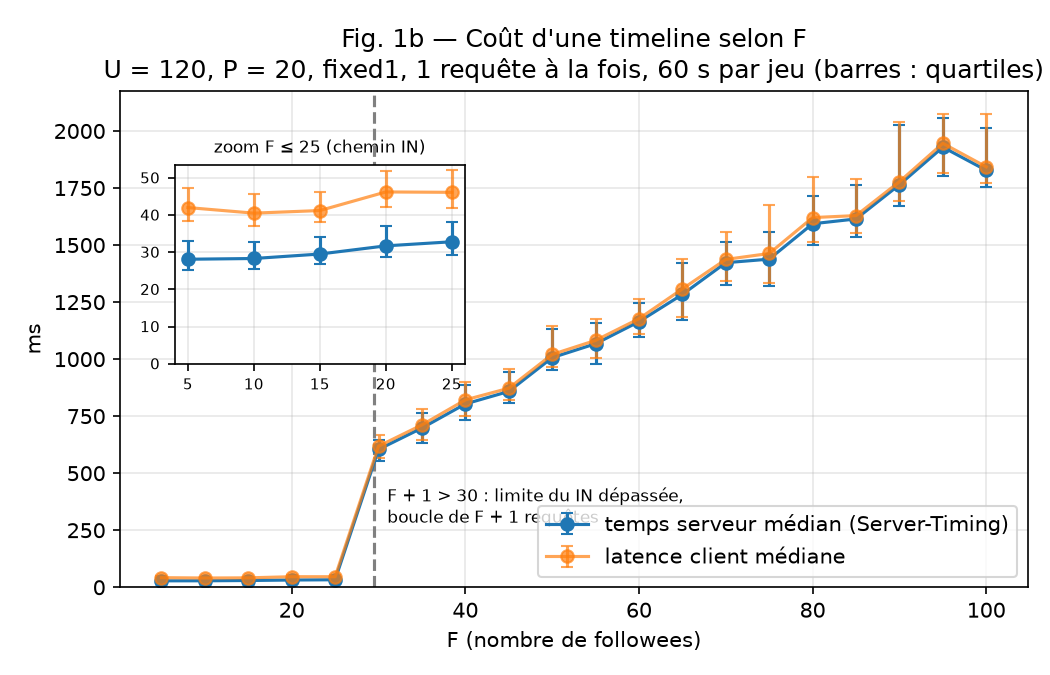
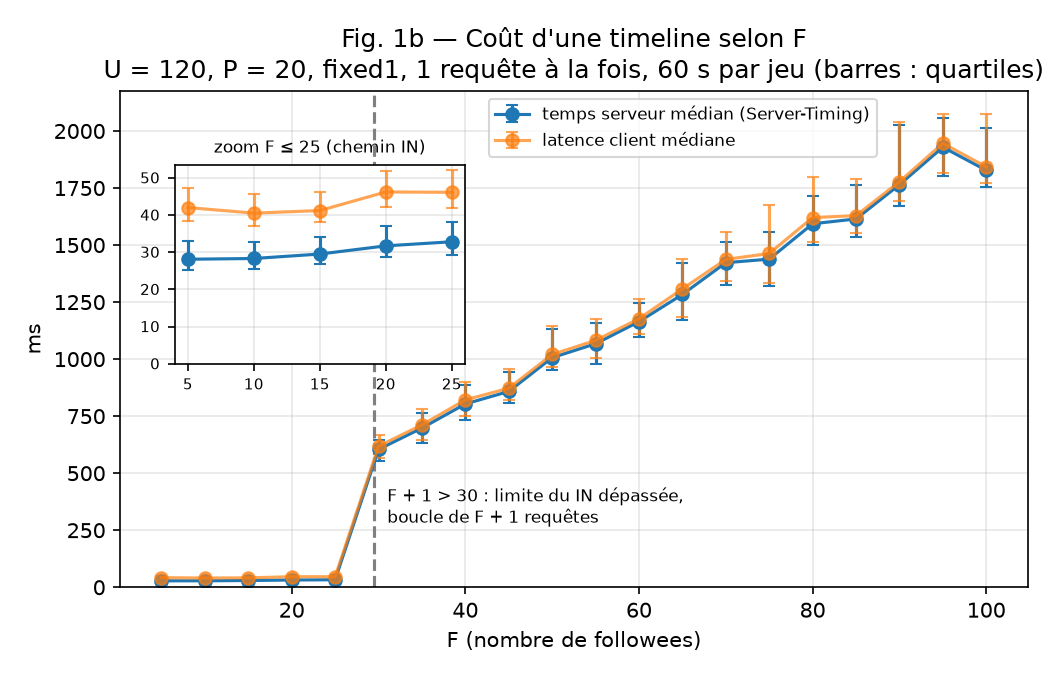
Nettoyage : journaux bruts regroupés dans raw/, en-têtes de scripts, Fig. 1b, notions du cours

Changed region(s): [[0.4876, 0.7467, 0.9752, 0.8711], [0.4571, 0.1244, 0.8533, 0.2489]]

diff --git a/bench/make_figures.py b/bench/make_figures.py
@@ -85,7 +85,7 @@ errbar(ins, [Fs[i] for i in k], [ss[i] for i in k], "lat", alpha=.7)
 ins.set_ylim(bottom=0); ins.set_title("zoom F ≤ 25 (chemin IN)", fontsize=8)
 ins.tick_params(labelsize=7); ins.grid(alpha=.3)
 ax.set_title("Fig. 1b — Coût d'une timeline selon F\nU = 120, P = 20, fixed1, 1 requête à la fois, 60 s par jeu (barres : quartiles)")
-ax.legend(loc="lower right"); ax.grid(alpha=.3); fig.tight_layout(); fig.savefig(f"{OUT}/fig1b.png", dpi=150)
+ax.legend(loc="upper center", bbox_to_anchor=(0.62, 1.0), fontsize=8); ax.grid(alpha=.3); fig.tight_layout(); fig.savefig(f"{OUT}/fig1b.png", dpi=150)
 
 print("Figures et CSV écrits dans figures/ : fig1a.png, fig1a.csv, fig1b.png, fig1b.csv")
 

diff --git a/README.md b/README.md
@@ -9,7 +9,7 @@ Rapport du projet Données massives et Cloud. Sujet : [SUJET.md](SUJET.md). READ
 - Jeux de données : générés du 06/11 au 08/11/2026 avec `bench/seed_exact.py`, vérifiés par `bench/check_datasets.py` (27/27 exacts)
 - Client (seed et charge) : Cloud Shell — Python 3.12, locust 2.46.7, google-cloud-datastore 2.19.0
 - Versions de mesure (instances B1, manual scaling, `--no-promote`) : `fixed1` (13/11, Parties 1 et 2), `fixed2` et `fixed4` (13/11, Partie 2), `thr1` = `fixed1` + `gunicorn --threads 8` (14/11, Partie 3, deux runs à 17:20 et 18:09 UTC)
-- **Reproduire** : toutes les figures et leurs CSV se régénèrent en une commande à partir de `raw/` : `pip install matplotlib && python bench/make_figures.py`. Mesures : `bench/run_part1.sh`, `bench/run_part2.sh N`, `bench/run_part3.sh N` ; vérification des jeux : `python bench/check_datasets.py`. Journal détaillé des incidents : [`NOTES.md`](NOTES.md).
+- **Reproduire** : toutes les figures et leurs CSV se régénèrent en une commande à partir de `raw/` : `pip install matplotlib && python bench/make_figures.py`. Mesures : `bench/run_part1.sh`, `bench/run_part2.sh N`, `bench/run_part3.sh N` ; vérification des jeux : `python bench/check_datasets.py`. Orchestration par un script shell par partie (pas de Snakemake). Journal détaillé des incidents : [`NOTES.md`](NOTES.md).
 
 ## 2. Résultats
 
@@ -27,7 +27,7 @@ Avant de mesurer, je regarde ce que fait vraiment une timeline dans `get_timelin
 Le code prévoit aussi une version GQL (L52-56), mais elle ne tourne jamais : `datastore.Client` n'a pas de méthode `gql` (vérifié). Et il y a un piège : si la requête `IN` échoue, l'erreur est ignorée (L65) et le code fait une boucle d'une requête par auteur (L66-72). Or Datastore accepte au plus 30 valeurs dans un `IN`. J'ai testé : 30 passe, 31 renvoie `400 IN supports up to 30 values`. Dès F = 30, l'application change donc de chemin sans rien dire, et répond toujours 200.
 
 **U et P : je m'attends à un temps constant.**
-Datastore range ses données par plages de clés triées (*range partitioning*). Dans l'index, les posts d'un même auteur sont côte à côte, du plus récent au plus ancien. Pour avoir ses 20 derniers posts, il suffit d'aller au début de sa plage et de lire 20 entrées : c'est la *range query* avec `ORDER BY … LIMIT` que le cours décrit comme naturelle en range partitioning. Le lookup de L43 est un accès par clé exacte (*point lookup*). Ni le nombre total d'utilisateurs (U), ni les posts plus anciens (P) n'entrent en jeu. C'est toute la différence avec le *Seq Scan* + *Sort* de PostgreSQL vu en cours : ici, on fait toujours l'équivalent d'un *Index Scan*.
+Datastore range ses données par plages de clés triées (*range partitioning*). Dans l'index, les posts d'un même auteur sont côte à côte, du plus récent au plus ancien. Pour avoir ses 20 derniers posts, il suffit d'aller au début de sa plage et de lire 20 entrées : c'est la *range query* avec `ORDER BY … LIMIT` que le cours décrit comme naturelle en range partitioning. Le lookup de L43 est un accès par clé exacte (*point lookup*). Ni le nombre total d'utilisateurs (U), ni les posts plus anciens (P) n'entrent en jeu. C'est la différence avec le *Seq Scan* + *Sort* de PostgreSQL vu en cours : ici, on fait toujours l'équivalent d'un *Index Scan*.
 
 **F : je m'attends à ce que ça ne passe pas à l'échelle.**
 Chaque auteur suivi est une plage différente, potentiellement sur un *shard* différent. La requête devient un *scatter/gather* sur F + 1 plages, suivi d'une fusion des résultats.
@@ -35,7 +35,7 @@ Chaque auteur suivi est une plage différente, potentiellement sur un *shard* di
 - F = 30 : un saut, le code bascule sur la boucle ;
 - F ≥ 30 : F + 1 allers-retours successifs vers Datastore. Le temps devrait croître à peu près linéairement avec F.
 
-Petit calcul de ce que coûte une timeline :
+Nombre d'opérations Datastore par timeline :
 
 | Cas | Lookups | Requêtes Datastore | Posts renvoyés (max) |
 |---|---|---|---|
@@ -88,7 +88,7 @@ Ce n'est pas Datastore qui ne passe pas à l'échelle ici, mais la façon dont l
 | F = 50 | 1 + 20 × 51 = 1 021 | ≈ 613 $ |
 | F = 100 | 1 + 20 × 101 = 2 021 | ≈ 1 213 $ |
 
-Le coût ne dépend ni de U ni de P, mais il est multiplié par 30 dès F = 30, puis il croît linéairement. Le problème de F coûte du temps, et aussi de l'argent.
+Le coût ne dépend ni de U ni de P, mais il est multiplié par 30 dès F = 30, puis il croît linéairement. Le problème de F coûte du temps, et aussi de l'argent. Avec le *back-of-the-envelope* « Instagram » du cours (50 milliards d'éléments de feed vus par jour, soit ~2,5 milliards de timelines de 20 posts), cela ferait ≈ 31 000 $ de lectures par jour avec F ≤ 25, et ≈ 3 millions $ par jour si chacun suivait 100 comptes.
 
 **Limites.** Les runs à F ≥ 30 ne contiennent que 30 à 93 requêtes en 60 s (une requête dure jusqu'à 2 s) : leurs médianes sont moins précises. Chaque jeu a été mesuré sur un seul utilisateur (`<préfixe>_u00000`). Tous les utilisateurs d'un jeu ont exactement F followees et P posts, ce qui les rend équivalents pour la requête, mais un effet de cache côté Datastore n'est pas exclu.
 
@@ -139,7 +139,7 @@ Valeurs tracées : [`figures/fig2a.csv`](figures/fig2a.csv), [`figures/fig2b.csv
 - le **client** n'est pas saturé : Locust n'a émis aucune alerte CPU ;
 - les **instances** sont pleines : elles passent 76 à 92 % de leur temps dans `get_timeline`.
 
-Ce qui change, c'est la durée de `get_timeline`. Son temps moyen (occupation / débit) passe d'environ 27 ms avec une instance à 40-47 ms avec 2 ou 4 instances, alors que la médiane bouge peu (25 → 29-34 ms) : quelques appels deviennent beaucoup plus lents. Avec 7 ms de surcoût par requête, cela donne 1 / (43 + 7 ms) ≈ 20 req/s par instance, exactement ce qu'on mesure. Plus on ajoute d'instances, plus elles interrogent Datastore en même temps, et plus l'accès aux données ralentit : comme le dit le cours, *« it scales if the data access scales »*. C'est aussi l'idée de la loi d'Amdahl : la partie partagée limite le gain. Je ne peux pas séparer ici l'effet de Datastore et celui du CPU partagé des instances B1, car les deux sont dans `get_timeline`.
+Ce qui change, c'est la durée de `get_timeline`. Son temps moyen (occupation / débit) passe d'environ 27 ms avec une instance à 40-47 ms avec 2 ou 4 instances, alors que la médiane bouge peu (25 → 29-34 ms) : quelques appels deviennent beaucoup plus lents. Avec 7 ms de surcoût par requête, cela donne 1 / (43 + 7 ms) ≈ 20 req/s par instance, ce qu'on mesure. Plus on ajoute d'instances, plus elles interrogent Datastore en même temps, et plus l'accès aux données ralentit : comme le dit le cours, *« it scales if the data access scales »*. C'est aussi l'idée de la loi d'Amdahl : la partie partagée limite le gain. Je ne peux pas séparer ici l'effet de Datastore et celui du CPU partagé des instances B1, car les deux sont dans `get_timeline`.
 
 **En résumé :** une instance sert environ 28 timelines/s, limitée par son unique worker. Ajouter des instances augmente le débit, mais moins que proportionnellement (×2,9 pour ×4), parce que le temps d'accès aux données augmente avec la charge totale.
 
@@ -148,7 +148,7 @@ Ce qui change, c'est la durée de `get_timeline`. Son temps moyen (occupation / 
 
 **Le goulot choisi : le worker unique** mis en évidence en Partie 2. Une instance ne sert qu'environ 28 timelines/s parce que `gunicorn`, lancé sans option, n'a qu'un worker synchrone : pendant qu'une requête attend Datastore, l'instance ne fait rien d'autre.
 
-**La correction.** Je lance gunicorn avec `--threads 8`. Le code de l'application ne change pas, seule la ligne `entrypoint` change. Elle est déployée dans une version à part, `thr1`, avec `--no-promote` (`deploy_threads.sh`, qui est une copie de `deploy_fixed.sh` où seules la ligne `entrypoint` et le nom de version diffèrent).
+**La correction.** Je lance gunicorn avec `--threads 8`. En Partie 2, on ajoutait des machines (*scale-out*) ; ici, on cherche à mieux utiliser une seule machine, une logique proche du *scale-up*. Le code de l'application ne change pas, seule la ligne `entrypoint` change. Elle est déployée dans une version à part, `thr1`, avec `--no-promote` (`deploy_threads.sh`, qui est une copie de `deploy_fixed.sh` où seules la ligne `entrypoint` et le nom de version diffèrent).
 
 **Pourquoi ça devrait marcher.** Une timeline passe l'essentiel de son temps à attendre les réponses de Datastore. En Python, un thread qui attend le réseau libère le GIL : pendant qu'un thread attend, un autre peut avancer sur sa propre requête. Avec 8 threads, une instance peut avoir jusqu'à 8 timelines en cours en même temps.
 
@@ -158,6 +158,7 @@ Ce qui change, c'est la durée de `get_timeline`. Son temps moyen (occupation / 
 - Latence : nettement plus basse à C égal. Au-delà de la saturation, la file d'attente revient, mais plus tard. La loi de Little doit rester vraie.
 
 **Ce que la correction devrait coûter.** En complexité, presque rien : une option. En argent, une instance B1 coûte le même prix, mais elle sert plus de requêtes, donc il faut moins d'instances pour une même charge. Les lectures Datastore par timeline ne changent pas. Côté cohérence des données, aucun risque : une timeline ne fait que lire. Le seul point à vérifier, c'est que le code supporte plusieurs threads : le client Datastore global (`main.py` L10) est partagé, et `get_timeline` ne modifie aucune variable globale.
+
 #### Protocole
 - Version `thr1` = `fixed1` + `--threads 8` dans l'`entrypoint` de gunicorn, déployée avec `--no-promote` par `deploy_threads.sh`.
 - Protocole **strictement identique** à la Partie 2 pour N = 1 : `bench/run_part3.sh` est généré à partir de `bench/run_part2.sh`, et seuls le nom de version, le script de déploiement et le dossier de sortie changent (`diff bench/run_part2.sh bench/run_part3.sh`).
@@ -171,9 +172,9 @@ Valeurs tracées : [`figures/fig3.csv`](figures/fig3.csv) (a), [`figures/fig3_te
 
 #### Interprétation
 
-**Le gain existe… pendant 50 secondes.** Au début de chaque run, les threads font exactement ce qu'on attendait, et même mieux : 160 à 180 timelines/s sur une seule instance, au lieu de 28, soit **×6**. L'instance traite alors 5 à 7 requêtes en même temps (le temps cumulé dans `get_timeline` atteint 500 à 760 % de la durée écoulée). Puis, vers **t ≈ 50 s**, dans les deux runs, le débit retombe au niveau de `fixed1` et n'en bouge plus (Fig. 3b). C'est pour ça qu'en Fig. 3a, `thr1` se confond avec `fixed1`, sauf au point C = 8, mesuré pendant la bascule.
+**Un gain réel, mais qui ne dure que 50 secondes.** Au début de chaque run, les threads font exactement ce qu'on attendait, et même mieux : 160 à 180 timelines/s sur une seule instance, au lieu de 28, soit **×6**. L'instance traite alors 5 à 7 requêtes en même temps (le temps cumulé dans `get_timeline` atteint 500 à 760 % de la durée écoulée). Puis, vers **t ≈ 50 s**, dans les deux runs, le débit retombe au niveau de `fixed1` et n'en bouge plus (Fig. 3b). C'est pour ça qu'en Fig. 3a, `thr1` se confond avec `fixed1`, sauf au point C = 8, mesuré pendant la bascule.
 
-**Ce n'est ni l'instance, ni le code.** C'est la même instance du début à la fin, et ses logs ne montrent ni redémarrage, ni erreur, ni manque de mémoire. Le temps passé dans `get_timeline` reste à ~25 ms avant comme après la bascule : si les threads se gênaient dans le code ou sur Datastore, ce temps augmenterait. La sérialisation se fait donc **avant** que la requête n'arrive dans l'application.
+**L'instance et le code ne sont pas en cause.** C'est la même instance du début à la fin, et ses logs ne montrent ni redémarrage, ni erreur, ni manque de mémoire. Le temps passé dans `get_timeline` reste à ~25 ms avant comme après la bascule : si les threads se gênaient dans le code ou sur Datastore, ce temps augmenterait. La sérialisation se fait donc **avant** que la requête n'arrive dans l'application.
 
 **C'est App Engine qui retient les requêtes.** Les logs d'App Engine le montrent directement (Fig. 3c). Avant la bascule, à C = 8, le `pendingTime` est nul. Après, les requêtes attendent dans la file d'App Engine, et cette attente vaut presque exactement (C − 1) × 30 ms, ce qui est le signe qu'App Engine n'envoie plus qu'une requête à la fois à l'instance :
 
@@ -184,17 +185,17 @@ Valeurs tracées : [`figures/fig3.csv`](figures/fig3.csv) (a), [`figures/fig3_te
 | 8 | 210 ms | ≈ 220 ms |
 | 32 | ≈ 0,95 s | ≈ 1,07 s |
 
-La documentation d'App Engine ne dit pas comment le planificateur choisit le nombre de requêtes simultanées envoyées à une instance en *manual scaling* : le réglage `max_concurrent_requests` n'existe qu'en *automatic scaling*. Je ne peux donc pas expliquer *pourquoi* la bascule a lieu au bout de ~50 s, seulement montrer *où* elle a lieu.
+La documentation d'App Engine ne dit pas comment le planificateur choisit le nombre de requêtes simultanées envoyées à une instance en *manual scaling* : le réglage `max_concurrent_requests` n'existe qu'en *automatic scaling*. Je ne peux donc pas expliquer *pourquoi* la bascule a lieu au bout de ~50 s, seulement montrer *où* elle a lieu. C'est le revers du **PaaS** vu en cours : la plateforme gère pour nous le routage et l'ordonnancement des requêtes, mais on n'a plus la main dessus. En **IaaS** (une VM avec gunicorn derrière notre propre load balancer), ce choix serait le nôtre.
 
 **Ce que la correction coûte.**
 - *Complexité* : quasi nulle, une option dans une ligne de configuration.
 - *Argent* : une instance B1 coûte le même prix. Tant que les threads servent, elle traite 6 fois plus de timelines, donc il faudrait 6 fois moins d'instances pour la même charge. Le nombre de lectures Datastore par timeline ne change pas (21).
 - *Cohérence des données* : aucun risque, une timeline ne fait que lire, et `get_timeline` ne modifie aucune variable globale. Le client Datastore (L10) est partagé par les threads.
-- *La vraie limite* est ailleurs : le gain dépend d'un choix de la plateforme qu'on ne contrôle pas en manual scaling. Pour en profiter durablement, il faudrait sans doute passer en automatic scaling avec `max_concurrent_requests`, mais ce n'est plus le protocole à instances fixes du sujet, donc je ne l'ai pas mesuré.
+- *Limite* : le gain dépend d'un choix de la plateforme qu'on ne contrôle pas en manual scaling. Pour en profiter durablement, il faudrait sans doute passer en automatic scaling avec `max_concurrent_requests`, mais ce n'est plus le protocole à instances fixes du sujet, donc je ne l'ai pas mesuré.
 
 **Variabilité.** Le run 2 est globalement 25 % plus lent que le run 1 (plafond 21 req/s contre 28, latence à C = 1 de 49 ms contre 38 ms), mais il montre la même bascule au même moment. Les comparaisons de ce rapport se font donc entre runs proches dans le temps.
 
-**Piste non mesurée pour l'autre goulot (Partie 1).** Découper la liste des auteurs en paquets de 30 et lancer une requête `IN` par paquet ramènerait une timeline à F = 100 à 4 requêtes (au lieu de 101) et à environ 81 lectures (au lieu de 2 021).
+**Piste non mesurée pour l'autre goulot (Partie 1).** Découper la liste des auteurs en paquets de 30 et lancer une requête `IN` par paquet ramènerait une timeline à F = 100 à 4 requêtes (au lieu de 101) et à environ 81 lectures (au lieu de 2 021). Une piste plus radicale, vue en cours, est de **matérialiser les timelines** (table `feeds_home`, *fan-out on write*) : lire une timeline devient une seule *range query*, quel que soit F. Le prix, c'est qu'un post doit être écrit dans la timeline de chacun de ses followers (transaction multi-shard coûteuse, ou mise à jour asynchrone par Pub/Sub), et la cohérence devient **éventuelle** : un post peut apparaître avec un peu de retard. C'est le compromis ACID / BASE du cours.
 
 ## 3. Tableau des verdicts
 
@@ -210,7 +211,7 @@ La documentation d'App Engine ne dit pas comment le planificateur choisit le nom
 2. Indépendance des runs et ordre des mesures : Partie 1 : ordre mélangé (graine 42) ; `base` au début (31,7 ms) et à la fin (31,4 ms), donc pas de dérive. Partie 2 : C mélangé (graine fixe) ; C = 8 refait en fin de série : latence client +7 à +14 %, temps serveur inchangé. Partie 3 : deux runs identiques à 50 minutes d'écart, avec la même bascule vers t ≈ 50 s ; le niveau général varie de ~25 % d'un run à l'autre.
 3. Part de la latence due au réseau : Partie 1 : ≈ 14 ms constants entre latence client et temps serveur (`figures/fig1b.csv`).
 4. Échecs comptés et codes HTTP observés : toute réponse ≠ 200 compte comme un échec. Partie 1 : 0 échec sur les runs mesurés ; des 500 uniquement pendant le démarrage de `fixed1` (`raw/incidents/`), d'où l'attente avant mesure. Partie 2 : moins de 1 % d'échecs, tous côté client (DNS `gaierror`, `ConnectionRefused`), aucune 5xx ; exclus du débit et des latences. Partie 3 : idem, moins de 1 % d'échecs, tous côté client.
-5. Vérification du chemin de code : chemin GQL jamais exécuté ; `IN` limité à 30 valeurs (voir NOTES.md) Partie 3 : `diff` des scripts (seule la ligne `entrypoint` change) ; `pendingTime` des logs App Engine pour localiser l'attente.
+5. Vérification du chemin de code : chemin GQL jamais exécuté ; `IN` limité à 30 valeurs (voir NOTES.md). Partie 3 : `diff` des scripts (seule la ligne `entrypoint` change) ; `pendingTime` des logs App Engine pour localiser l'attente.
 6. Coût de la campagne : au total 3,23 $ brut, 0 $ payé, volumes confirmés par la facture (section 5). Partie 1 : ≈ 1,19 million de lectures d'entités (≈ 0,7 $ avant quota gratuit), dont ≈ 0,88 million pour les seuls runs F ≥ 30 ; ≈ 35 min d'instance B1. Partie 2 : ≈ 63 000 timelines, soit ≈ 1,3 million de lectures (≈ 0,8 $), et ≈ 1,2 h d'instance B1. Partie 3 : ≈ 37 000 timelines, soit ≈ 0,8 million de lectures (≈ 0,5 $), et ≈ 25 min d'instance B1.
 
 ## 5. Coût de la campagne
@@ -230,7 +231,7 @@ Source : rapport de facturation GCP du projet `tinyinsta-2026-511514`, du 13/10 
 
 **Le modèle de coût est validé par la facture.** Les suppressions tombent exactement sur la somme de mes purges, les écritures à 0,5 % près, et les lectures à environ 2 % près. Le modèle « 1 lookup + 20 posts » (ou 1 + 20 × (F + 1) au-delà de F = 30) décrit donc bien ce que Datastore facture.
 
-**Ce que la facture m'a appris.**
+**Écarts et enseignements.**
 - Le prix effectif d'une lecture est d'environ **0,06 $ pour 100 000** (1,96 $ pour 3,37 millions de lectures, après le quota gratuit), soit le double du chiffre que j'avais d'abord retenu. J'ai corrigé le coût de 1 million de timelines en Partie 1 en conséquence.
 - Les instances n'ont rien coûté : 4,52 h de B1 et 1,32 h de F1 restent sous les quotas gratuits quotidiens (9 h de backend et 28 h de frontend par jour). Les 4,52 h dépassent le temps de mesure parce qu'elles incluent les déploiements, les attentes de démarrage, les chauffes et le déploiement resté bloqué.
 - Tout le coût vient de **Datastore** : écritures 37 %, lectures 61 %, suppressions 2 %. Les seeds ratés (problème gRPC, voir `NOTES.md`) représentent à eux seuls la moitié des écritures et toutes les suppressions, soit environ 0,7 $, plus de 20 % de la campagne.

diff --git a/NOTES.md b/NOTES.md
@@ -41,17 +41,16 @@
 - Purges lentes : requêtes sur des plages fraîchement supprimées (tombstones). Attendre plusieurs heures entre la fin des seeds/purges (08/11 16h30) et les mesures de la Partie 1.
 - Le seed n'influence pas les mesures : il remplit la base, l'application mesurée (main.py sur App Engine) a son propre client.
 
-## Coût (à compléter avec la page Facturation)
-- Écritures du seed final : ~400 000 entités, plus les écritures et suppressions des tentatives ratées (environ 300 000 entités supplémentaires)
-
 ## Chemin de code de get_timeline (vérifié le 10/11)
-- hasattr(datastore.Client, 'gql') == False -> le chemin GQL (main.py L52-56) n'est JAMAIS exécuté ; le README est trompeur.
+- hasattr(datastore.Client, 'gql') == False -> le chemin GQL (main.py L52-56) n'est jamais exécuté, alors que le README d'origine présente la requête comme du GQL.
 - Test direct de la requête de L61-64 sur f30 : 30 valeurs dans IN -> OK (20 posts) ; 31 valeurs -> InvalidArgument 400 "IN supports up to 30 values".
 - Donc F <= 29 (F+1 <= 30 auteurs) : chemin IN (L61-64). F >= 30 : exception avalée (L65) -> boucle de F+1 requêtes séquentielles (L66-72), jusqu'à (F+1)*20 lectures, tri en Python. Réponse HTTP 200 dans les deux cas.
-- 13/11 : 1er lancement de la Partie 2 en échec au déploiement (Cloud Build "Failed to download at least one file") :
+
+## Incidents pendant les mesures (13/11)
+- 1er lancement de la Partie 2 en échec au déploiement (Cloud Build "Failed to download at least one file") :
   le log nohup était écrit dans raw/ pendant l'upload. Correction : raw/, figures/, logs/ ajoutés à .gcloudignore,
   log de lancement écrit hors du dépôt. Aucun changement du code de l'application.
-- 13/11 15:05 : redéploiement de fixed1 par-dessus la version STOPPED -> build SUCCESS mais CreateVersion bloqué (> 30 min, timeout).
+- 15:05 : redéploiement de fixed1 par-dessus la version STOPPED -> build SUCCESS mais CreateVersion bloqué (> 30 min, timeout).
   Correction : run_part2.sh supprime fixedN existante avant de la redéployer.
-- 13/11 15:47 : chauffe Partie 2 (N=1, C=16) : 3 échecs client sur 1011 (2 gaierror DNS Cloud Shell, 1 ConnectionRefused).
+- 15:47 : chauffe Partie 2 (N=1, C=16) : 3 échecs client sur 1011 (2 gaierror DNS Cloud Shell, 1 ConnectionRefused).
   Locust sort en code 1 -> set -e arrêtait le script. Correction : les échecs sont enregistrés dans le CSV, le script continue.
